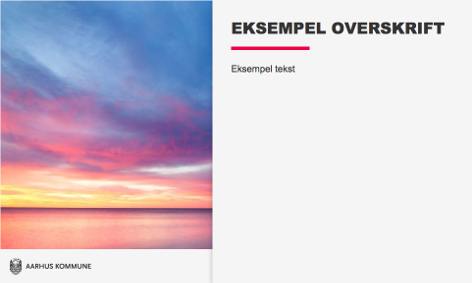
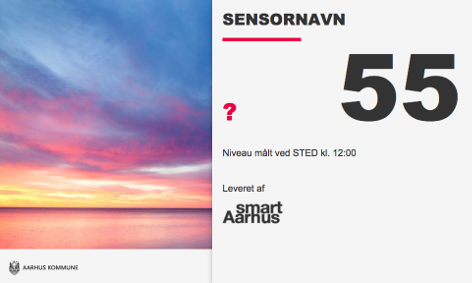
MKBDIGI-208: Fixed sensor single template

diff --git a/Resources/public/templates/aarhus/slides/aarhus-second-sensor-single/aarhus-second-sensor-single.css b/Resources/public/templates/aarhus/slides/aarhus-second-sensor-single/aarhus-second-sensor-single.css
@@ -1,1 +1,1 @@
-@keyframes box-reveal{0%{opacity:0}100%{opacity:1;transform:translateY(0px)}}@keyframes h1-underline{0%{opacity:0;width:100%}40%{opacity:1;width:100%;margin-top:0.938em;height:0.375em}70%{opacity:1;width:100%;margin-top:0.625em;height:0.2em}100%{opacity:1;width:5em;margin-top:0.625em}}@keyframes text-hide{0%{opacity:1}100%{opacity:0;display:none}}@keyframes text-reveal{0%{opacity:0}100%{opacity:1;transform:translateY(0px)}}.aarhus-second{font-family:Arial,Helvetica,sans-serif;font-size:16px;text-align:left}.aarhus-second p{margin:0;padding:0}.aarhus-second h1,.aarhus-second h2,.aarhus-second h3,.aarhus-second h4,.aarhus-second h5,.aarhus-second h6{font-weight:bold;margin-top:0}.aarhus-second h1{line-height:1.2em;text-transform:uppercase;font-family:"Arial Black",Arial,Helvetica,sans-serif;font-weight:bold}.aarhus-second ul{list-style-type:disc;list-style-position:inside;margin:0 0 0 1em;padding:0}.aarhus-second ol{list-style-type:decimal;list-style-position:inside;margin:0 0 0 1em;padding:0}.aarhus-second ul ul,.aarhus-second ol ul{list-style-type:circle;list-style-position:inside}.aarhus-second ol ol,.aarhus-second ul ol{list-style-type:lower-latin;list-style-position:inside}.aarhus-second--container{position:relative;width:100%;height:100%;background-color:#f5f5f5}.aarhus-second--container .footer{height:auto;width:100%;position:absolute;bottom:0;background:#f5f5f5;z-index:1}.aarhus-second--container .footer.small{height:12%}.aarhus-second--container .footer.medium{height:25%}.aarhus-second--container .footer .logo{position:absolute;max-width:20%;max-height:50%;height:auto;bottom:10%;margin-left:2%}.aarhus-second h1{position:relative;font-family:"Arial Black",Arial,Helvetica,sans-serif;font-size:1.875em;line-height:1.125em;color:#333;margin:0 0 1em 0;text-transform:uppercase;display:inline-block;padding-bottom:0.625em}.aarhus-second h1:after{opacity:0;content:"";display:block;position:absolute;height:0.20em;background-color:#EE0043;width:100%;margin-top:-0.625em;transition:width .3s ease-out;animation-name:h1-underline;animation-delay:.5s;animation-duration:.7s;animation-iteration-count:1;animation-timing-function:ease-out;animation-fill-mode:forwards}.aarhus-second h2{position:relative;font-family:"Arial Black",Arial,Helvetica,sans-serif;font-size:1.25em;color:#333;margin:0 0 1em 0;text-transform:uppercase;display:inline-block}.aarhus-second h2:after{opacity:1;content:"";display:block;position:absolute;height:0.20em;background-color:#EE0043;width:3.75em;margin-top:0.313em}.aarhus-second h3{position:relative;font-family:"Arial Black",Arial,Helvetica,sans-serif;font-size:1.25em;color:#333;margin:0 0 1em 0;text-transform:uppercase;display:inline-block}.aarhus-second-sensor-single .item.footer{z-index:2}.aarhus-second-sensor-single .item.footer .logo{bottom:25%}.aarhus-second-sensor-single .image{position:absolute;top:0;left:0;height:100%;width:45%;background-size:cover;background-position-y:bottom;opacity:0;animation-name:box-reveal;animation-duration:0.7s;animation-iteration-count:1;animation-timing-function:ease-out;animation-fill-mode:forwards;z-index:2}.aarhus-second-sensor-single .textbox{position:absolute;top:0;left:45%;width:55%;height:100%;padding:4%;background:#f5f5f5;box-shadow:0 4px 16px rgba(0,0,0,0.26);z-index:3}.aarhus-second-sensor-single .textbox h1{color:#333}.aarhus-second-sensor-single .textbox .data{display:flex;flex-direction:row;flex-wrap:wrap;align-items:baseline;justify-content:flex-start;margin-bottom:1.875em}.aarhus-second-sensor-single .textbox .data .data-type{color:#EE0043;font-family:"Arial Black",Arial,Helvetica,sans-serif;font-size:2.813em;line-height:1em;flex-basis:20%}.aarhus-second-sensor-single .textbox .data .data-type span{margin:0;padding:0}.aarhus-second-sensor-single .textbox .data .data-amount{color:#333;font-family:"Arial Black",Arial,Helvetica,sans-serif;font-size:12.5em;line-height:1em;flex-basis:80%;text-align:right}.aarhus-second-sensor-single .textbox .data .data-amount span{margin:0;padding:0}.aarhus-second-sensor-single .textbox .data .data-location{width:100%}.aarhus-second-sensor-single .textbox p{font-family:Arial,Helvetica,sans-serif;font-size:1.125em;color:#333;margin:0 0 0.625em 0}
+@keyframes box-reveal{0%{opacity:0}100%{opacity:1;transform:translateY(0px)}}@keyframes h1-underline{0%{opacity:0;width:100%}40%{opacity:1;width:100%;margin-top:0.938em;height:0.375em}70%{opacity:1;width:100%;margin-top:0.625em;height:0.2em}100%{opacity:1;width:5em;margin-top:0.625em}}@keyframes text-hide{0%{opacity:1}100%{opacity:0;display:none}}@keyframes text-reveal{0%{opacity:0}100%{opacity:1;transform:translateY(0px)}}.aarhus-second{font-family:Arial,Helvetica,sans-serif;font-size:16px;text-align:left}.aarhus-second p{margin:0;padding:0}.aarhus-second h1,.aarhus-second h2,.aarhus-second h3,.aarhus-second h4,.aarhus-second h5,.aarhus-second h6{font-weight:bold;margin-top:0}.aarhus-second h1{line-height:1.2em;text-transform:uppercase;font-family:"Arial Black",Arial,Helvetica,sans-serif;font-weight:bold}.aarhus-second ul{list-style-type:disc;list-style-position:inside;margin:0 0 0 1em;padding:0}.aarhus-second ol{list-style-type:decimal;list-style-position:inside;margin:0 0 0 1em;padding:0}.aarhus-second ul ul,.aarhus-second ol ul{list-style-type:circle;list-style-position:inside}.aarhus-second ol ol,.aarhus-second ul ol{list-style-type:lower-latin;list-style-position:inside}.aarhus-second--container{position:relative;width:100%;height:100%;background-color:#f5f5f5}.aarhus-second--container .footer{height:auto;width:100%;position:absolute;bottom:0;background:#f5f5f5;z-index:1}.aarhus-second--container .footer.small{height:12%}.aarhus-second--container .footer.medium{height:25%}.aarhus-second--container .footer .logo{position:absolute;max-width:20%;max-height:50%;height:auto;bottom:10%;margin-left:2%}.aarhus-second h1{position:relative;font-family:"Arial Black",Arial,Helvetica,sans-serif;font-size:1.875em;line-height:1.125em;color:#333;margin:0 0 1em 0;text-transform:uppercase;display:inline-block;padding-bottom:0.625em}.aarhus-second h1:after{opacity:0;content:"";display:block;position:absolute;height:0.20em;background-color:#EE0043;width:100%;margin-top:-0.625em;transition:width .3s ease-out;animation-name:h1-underline;animation-delay:.5s;animation-duration:.7s;animation-iteration-count:1;animation-timing-function:ease-out;animation-fill-mode:forwards}.aarhus-second h2{position:relative;font-family:"Arial Black",Arial,Helvetica,sans-serif;font-size:1.25em;color:#333;margin:0 0 1em 0;text-transform:uppercase;display:inline-block}.aarhus-second h2:after{opacity:1;content:"";display:block;position:absolute;height:0.20em;background-color:#EE0043;width:3.75em;margin-top:0.313em}.aarhus-second h3{position:relative;font-family:"Arial Black",Arial,Helvetica,sans-serif;font-size:1.25em;color:#333;margin:0 0 1em 0;text-transform:uppercase;display:inline-block}.aarhus-second-sensor-single .item.footer{z-index:1}.aarhus-second-sensor-single .item.footer .logo{bottom:25%}.aarhus-second-sensor-single .image{position:absolute;top:0;left:0;height:100%;width:45%;background-size:cover;background-position-y:bottom;opacity:0;animation-name:box-reveal;animation-duration:0.7s;animation-iteration-count:1;animation-timing-function:ease-out;animation-fill-mode:forwards;z-index:1}.aarhus-second-sensor-single .textbox{position:absolute;top:0;left:45%;height:100%;width:55%;background:#f5f5f5;box-shadow:0 4px 16px rgba(0,0,0,0.26);z-index:2}.aarhus-second-sensor-single .textbox .item{width:92%;height:93%;margin:4%}.aarhus-second-sensor-single .textbox h1{color:#333;margin:0}.aarhus-second-sensor-single .textbox .data{display:flex;flex-direction:row;flex-wrap:wrap;align-items:baseline;justify-content:flex-start;margin-bottom:1.875em}.aarhus-second-sensor-single .textbox .data .data-type{color:#EE0043;font-family:"Arial Black",Arial,Helvetica,sans-serif;font-size:2.813em;line-height:1em;flex-basis:20%;margin-bottom:1em}.aarhus-second-sensor-single .textbox .data .data-type span{margin:0;padding:0}.aarhus-second-sensor-single .textbox .data .data-amount{color:#333;font-family:"Arial Black",Arial,Helvetica,sans-serif;font-size:11em;line-height:1em;flex-basis:80%;text-align:right}.aarhus-second-sensor-single .textbox .data .data-amount span{margin:0;padding:0}.aarhus-second-sensor-single .textbox .data .data-location{width:100%}.aarhus-second-sensor-single .textbox .data-by{width:25%}.aarhus-second-sensor-single .textbox p{font-family:Arial,Helvetica,sans-serif;font-size:1.125em;color:#333;margin:0 0 0.625em 0}

diff --git a/Resources/public/templates/aarhus/slides/aarhus-second-sensor-single/aarhus-second-sensor-single.html b/Resources/public/templates/aarhus/slides/aarhus-second-sensor-single/aarhus-second-sensor-single.html
@@ -1,11 +1,25 @@
 <div class="aarhus-second aarhus-second-sensor-single aarhus-second--container">
   <div class="item image" data-ng-style="{'background-image': 'url(' + ikSlide.currentImage + ')', 'background-color': ikSlide.options.bgcolor}">
   </div>
-  <div></div>
-  <div class="item textbox" ng-bind-html="ikSlide.options.text">
+  <div class="textbox" data-ng-if="ikSlide.external_data !== null && ikSlide.external_data.length > 0">
+    <div class="item">
+      <h1>{{ikSlide.external_data[0].name}}</h1>
+      <div class="data">
+        <div class="data-type">
+          <span>{{ikSlide.external_data[0].unit}}</span>
+        </div>
+        <div class="data-amount">
+          <span class="counter" data-count="{{ikSlide.external_data[0].value}}">0</span>
+        </div>
+        <div class="data-location" data-ng-if="ikSlide.external_data[0].location">
+          <p>Niveau målt ved {{ikSlide.external_data[0].location}} kl. {{ikSlide.external_data[0].timestamp | date: 'HH:mm'}}</p>
+        </div>
+      </div>
+      <p>Leveret af</p>
+      <img src="{{ikSlide.path + '../../assets/smart-aarhus-logo.png'}}" alt="Smart Aarhus" class="data-by">
+    </div>
   </div>
-  <div></div>
   <div class="item footer small">
-    <img class="logo" data-ng-src="{{ikSlide.path + '/img/AAK_01_venstrejusteret_sh.svg'}}" alt="Aarhus kommune">
+    <img class="logo" data-ng-src="{{ikSlide.path + '../../assets/AAK_01_venstrejusteret_sh.svg'}}" alt="Aarhus kommune">
   </div>
 </div>

diff --git a/Resources/public/templates/aarhus/slides/aarhus-second-sensor-single/aarhus-second-sensor-single-edit.html b/Resources/public/templates/aarhus/slides/aarhus-second-sensor-single/aarhus-second-sensor-single-edit.html
@@ -1,10 +1,25 @@
 <div class="aarhus-second aarhus-second-sensor-single aarhus-second--container" data-ng-style="{'width': theStyle.width, 'height': theStyle.height, 'font-size': theStyle.fontsize}">
   <div class="item image" data-ng-style="{'background-image': 'url(' + ikSlide.currentImage + ')', 'background-color': ikSlide.options.bgcolor}">
   </div>
-  <div class="item fade"></div>
-  <div class="item textbox" ng-bind-html="ikSlide.options.text">
+  <div class="textbox">
+    <div class="item">
+      <h1>SENSORNAVN</h1>
+      <div class="data">
+        <div class="data-type">
+          <span>?</span>
+        </div>
+        <div class="data-amount">
+          <span class="counter">55</span>
+        </div>
+        <div class="data-location">
+          <p>Niveau målt ved STED kl. 12:00</p>
+        </div>
+      </div>
+      <p>Leveret af</p>
+      <img src="bundles/itkaarhussecondtemplate/templates/aarhus/assets/smart-aarhus-logo.png" alt="Smart Aarhus" class="data-by">
+    </div>
   </div>
   <div class="item footer small">
-    <img class="logo" data-ng-src="bundles/itkaarhussecondtemplate/templates/aarhus/slides/aarhus-second-image-text-right/img/AAK_01_venstrejusteret_sh.svg" alt="Aarhus kommune">
+    <img class="logo" data-ng-src="bundles/itkaarhussecondtemplate/templates/aarhus/assets/AAK_01_venstrejusteret_sh.svg" alt="Aarhus kommune">
   </div>
 </div>

diff --git a/Resources/public/templates/aarhus/slides/aarhus-second-sensor-single/aarhus-second-sensor-single.scss b/Resources/public/templates/aarhus/slides/aarhus-second-sensor-single/aarhus-second-sensor-single.scss
@@ -2,7 +2,7 @@
 
 .aarhus-second-sensor-single {
   .item.footer {
-    z-index: 2;
+    z-index: 1;
 
     .logo {
       bottom: 25%;
@@ -23,22 +23,28 @@
     animation-iteration-count: 1;
     animation-timing-function: ease-out;
     animation-fill-mode: forwards;
-    z-index: 2;
+    z-index: 1;
   }
 
   .textbox {
     position: absolute;
     top: 0;
     left: 45%;
-    width: 55%;
     height: 100%;
-    padding: 4%;
+    width: 55%;
     background: $color-light-grey;
     box-shadow: $shadow-box;
-    z-index: 3;
+    z-index: 2;
+
+    .item {
+      width: 92%;
+      height: 93%;
+      margin: 4%;
+    }
 
     h1 {
       color: $color-grey;
+      margin: 0;
     }
 
     .data {
@@ -55,6 +61,7 @@
         font-size: 2.813em;
         line-height: 1em;
         flex-basis: 20%;
+        margin-bottom: 1em;
 
         span {
           margin: 0;
@@ -65,7 +72,7 @@
       .data-amount {
         color: $color-grey;
         font-family: $font-family-black;
-        font-size: 12.5em;
+        font-size: 11em;
         line-height: 1em;
         flex-basis: 80%;
         text-align: right;
@@ -79,6 +86,10 @@
       .data-location {
         width: 100%;
       }
+    }
+
+    .data-by {
+      width: 25%;
     }
 
     p {

diff --git a/Resources/public/templates/aarhus/slides/aarhus-second-image-text/aarhus-second-image-text-edit.html b/Resources/public/templates/aarhus/slides/aarhus-second-image-text/aarhus-second-image-text-edit.html
@@ -1,4 +1,4 @@
-<div class="aarhus-second aarhus-second--image-text aarhus-second--container" data-ng-style="{'width': theStyle.width, 'height': theStyle.height, 'font-size': theStyle.fontsize}">
+<div class="aarhus-second aarhus-second-image-text aarhus-second--container" data-ng-style="{'width': theStyle.width, 'height': theStyle.height, 'font-size': theStyle.fontsize}">
   <div class="item image" data-ng-style="{'background-image': 'url(' + ikSlide.currentImage + ')', 'background-color': ikSlide.options.bgcolor}">
   </div>
   <div class="item fade"></div>
